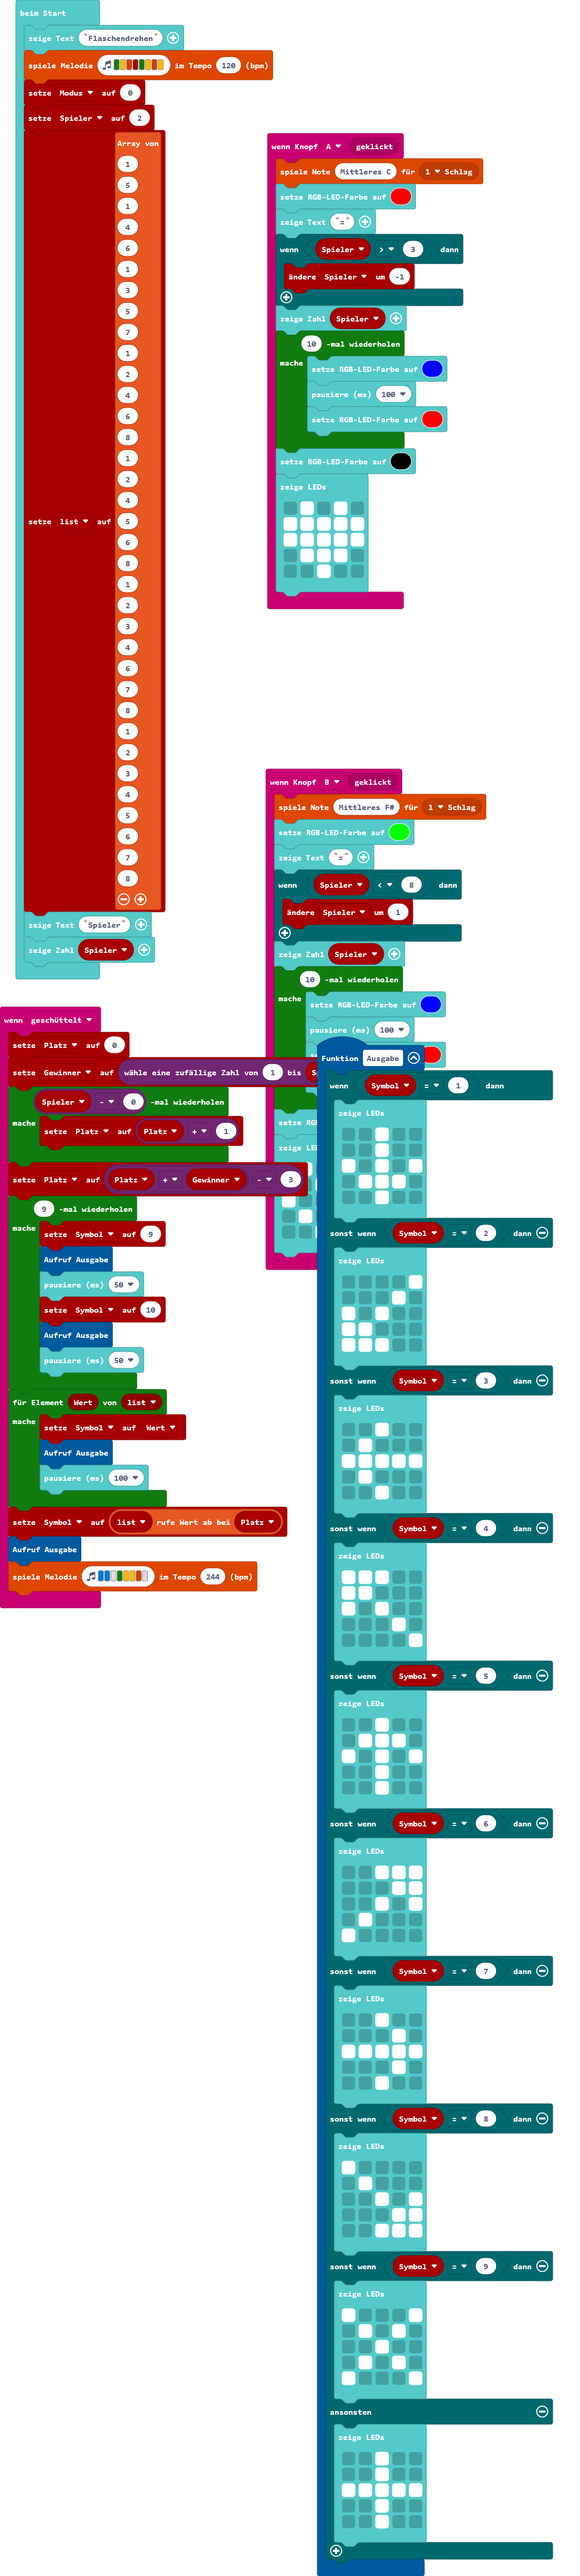
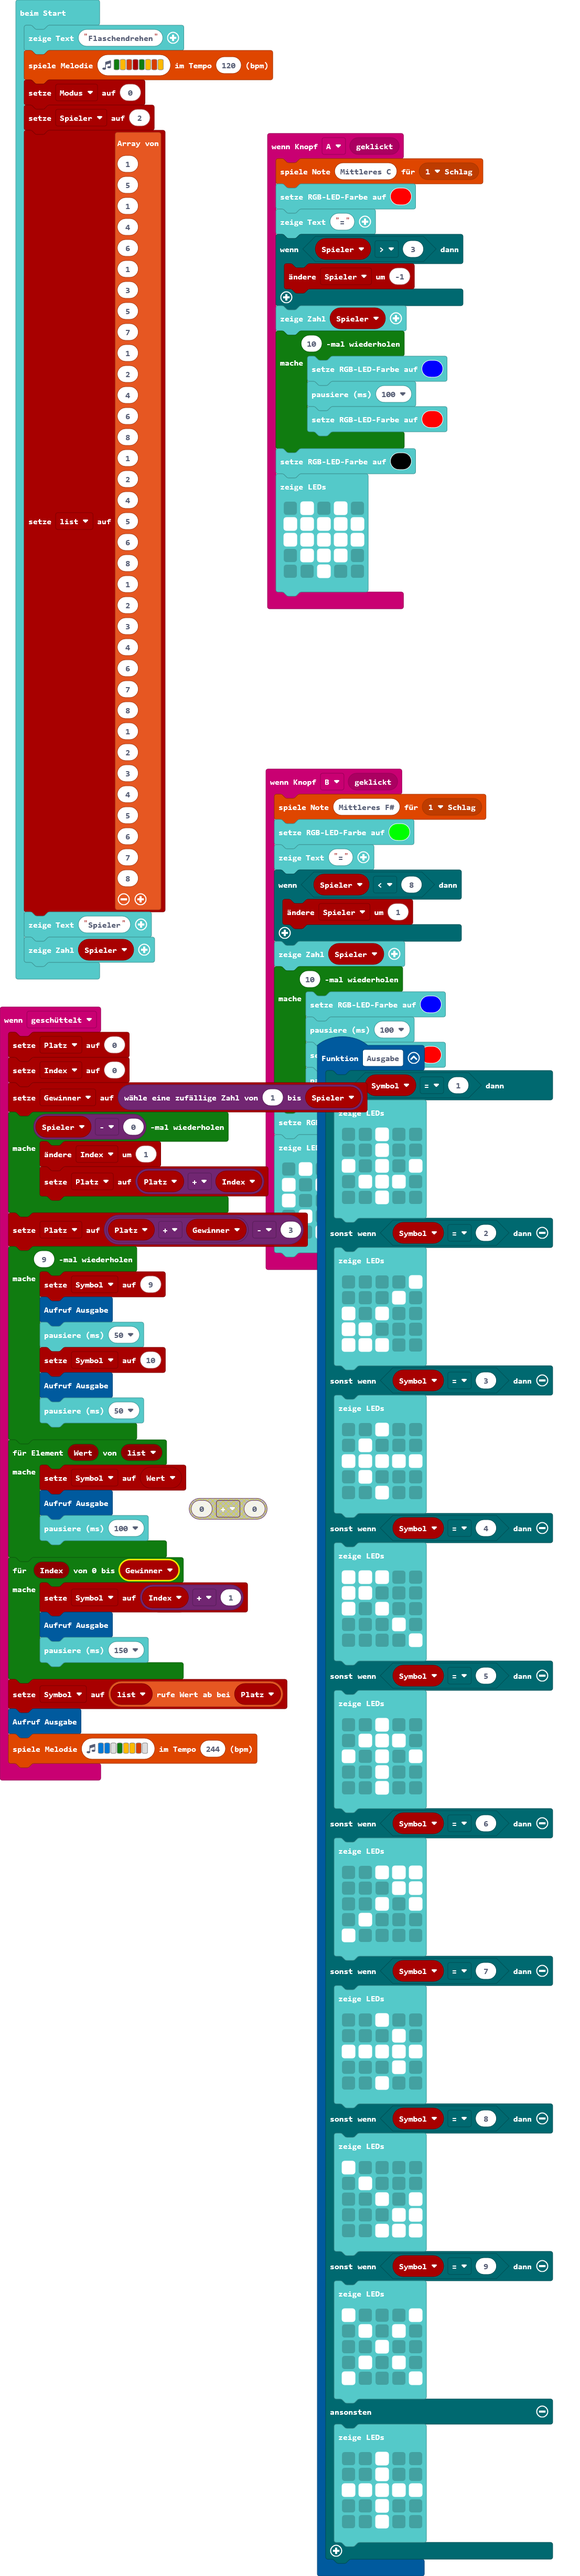
Aktualisiere main.blocks, main.ts, main.py

Changed region(s): [[0.0, 0.4056, 0.6456, 0.7176]]

diff --git a/main.ts b/main.ts
@@ -45,9 +45,11 @@ input.onButtonEvent(Button.B, input.buttonEventClick(), function () {
 })
 input.onGesture(Gesture.Shake, function () {
     Platz = 0
+    Index = 0
     Gewinner = randint(1, Spieler)
     for (let index = 0; index < Spieler - 0; index++) {
-        Platz = Platz + 1
+        Index += 1
+        Platz = Platz + Index
     }
     Platz = Platz + Gewinner - 3
     for (let index = 0; index < 9; index++) {
@@ -62,6 +64,11 @@ input.onGesture(Gesture.Shake, function () {
         Symbol = Wert
         Ausgabe()
         basic.pause(100)
+    }
+    for (let Index = 0; Index <= Gewinner; Index++) {
+        Symbol = Index + 1
+        Ausgabe()
+        basic.pause(150)
     }
     Symbol = list[Platz]
     Ausgabe()
@@ -152,6 +159,7 @@ function Ausgabe () {
 }
 let Symbol = 0
 let Gewinner = 0
+let Index = 0
 let Platz = 0
 let list: number[] = []
 let Spieler = 0

diff --git a/main.py b/main.py
@@ -11,6 +11,13 @@ def on_button_a():
         basic.pause(100)
         basic.set_led_color(0xff0000)
     basic.set_led_color(0x000000)
+    basic.show_leds("""
+        . # . # .
+                # # # # #
+                # # # # #
+                . # # # .
+                . . # . .
+    """)
 input.on_button_event(Button.A, input.button_event_click(), on_button_a)
 
 def on_button_b():
@@ -27,14 +34,23 @@ def on_button_b():
         basic.set_led_color(0xff0000)
         basic.pause(100)
     basic.set_led_color(0x000000)
+    basic.show_leds("""
+        . # . # .
+                # . # . #
+                # . . . #
+                . # . # .
+                . . # . .
+    """)
 input.on_button_event(Button.B, input.button_event_click(), on_button_b)
 
 def on_gesture_shake():
-    global Platz, Gewinner, Symbol
+    global Platz, Index, Gewinner, Symbol
     Platz = 0
+    Index = 0
     Gewinner = randint(1, Spieler)
     for index3 in range(Spieler - 0):
-        Platz = Platz + 1
+        Index += 1
+        Platz = Platz + Index
     Platz = Platz + Gewinner - 3
     for index4 in range(9):
         Symbol = 9
@@ -135,6 +151,7 @@ def Ausgabe():
         """)
 Symbol = 0
 Gewinner = 0
+Index = 0
 Platz = 0
 list2: List[number] = []
 Spieler = 0
